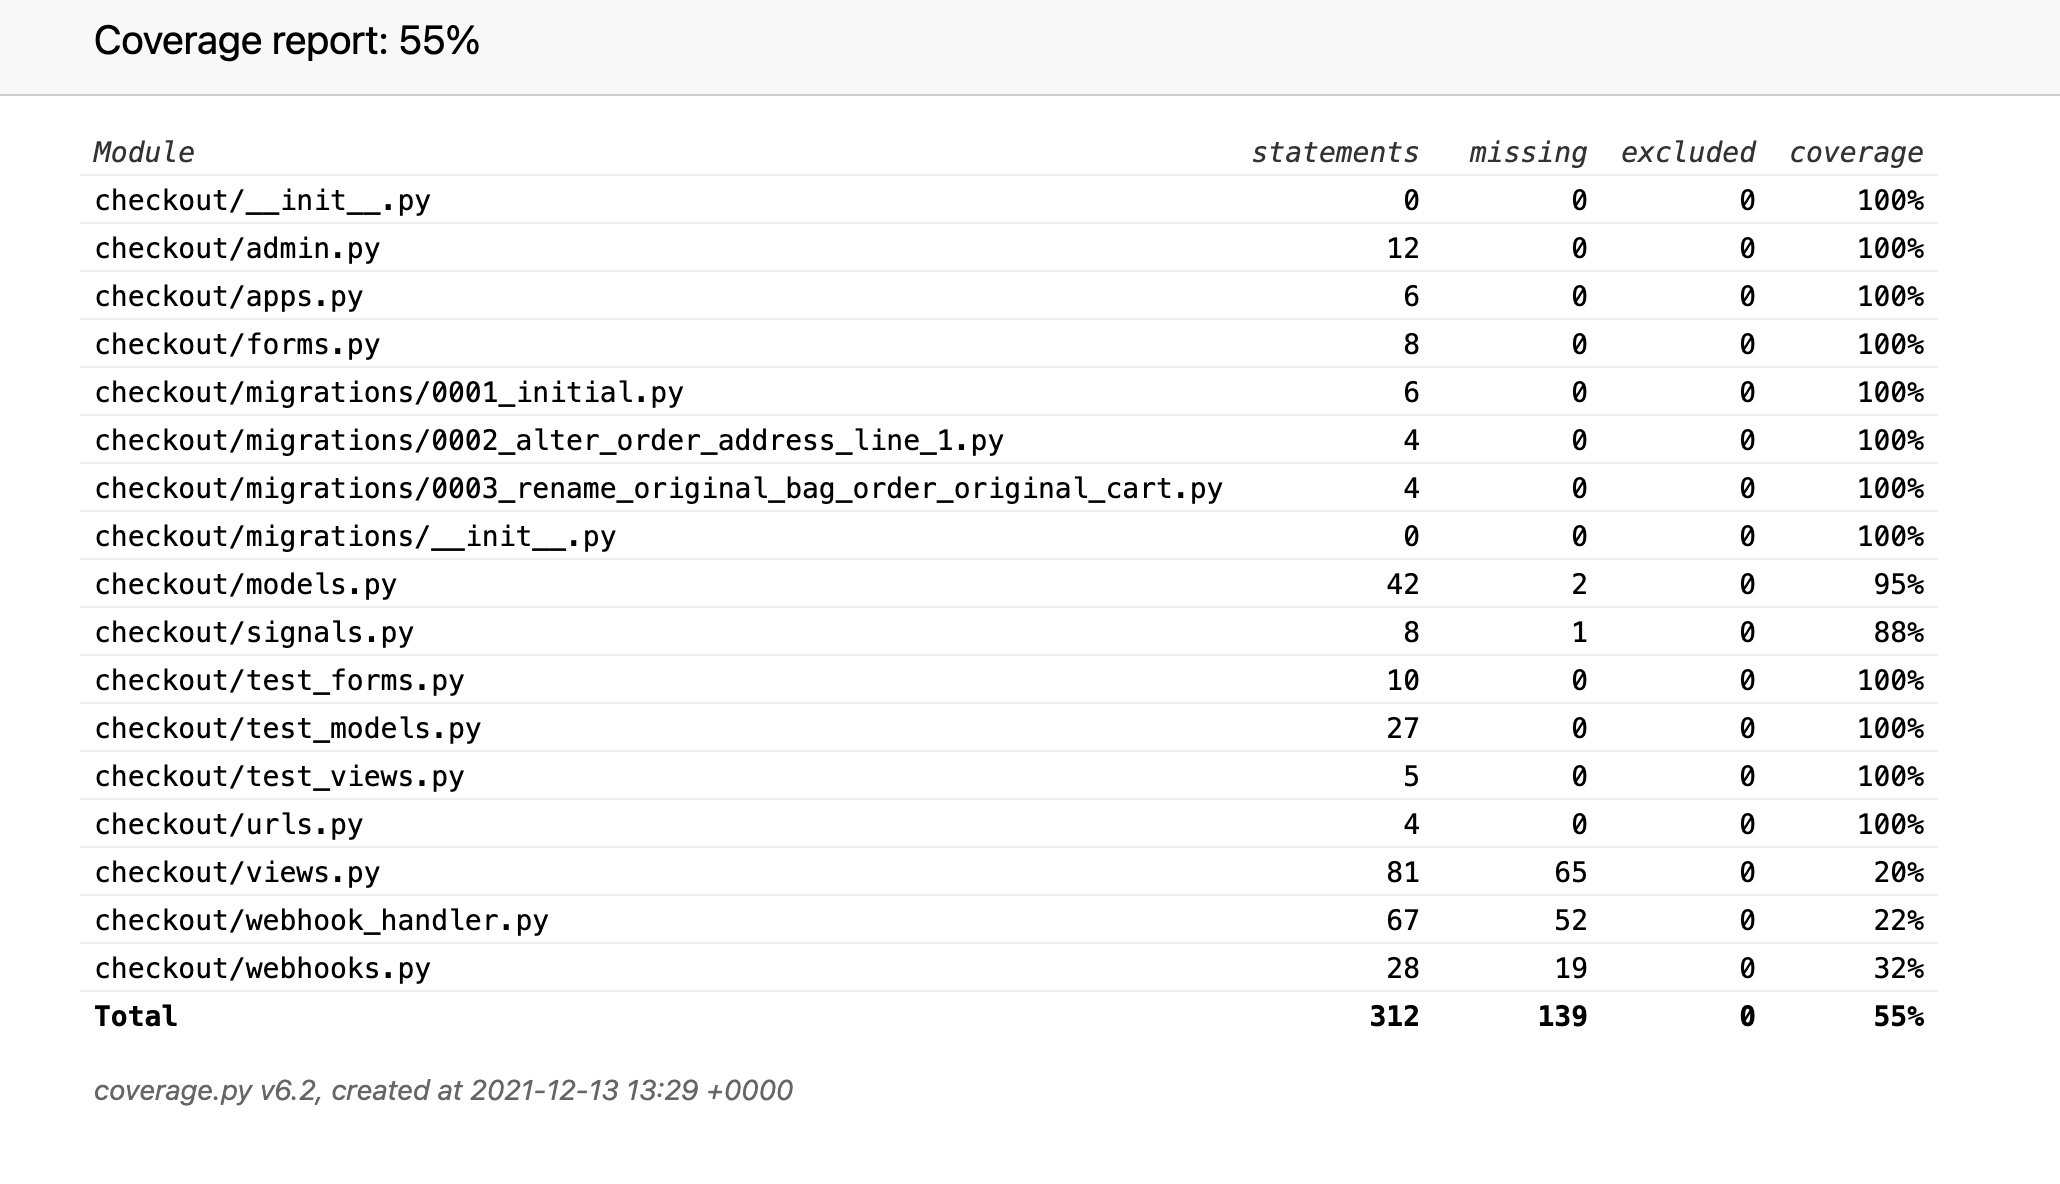
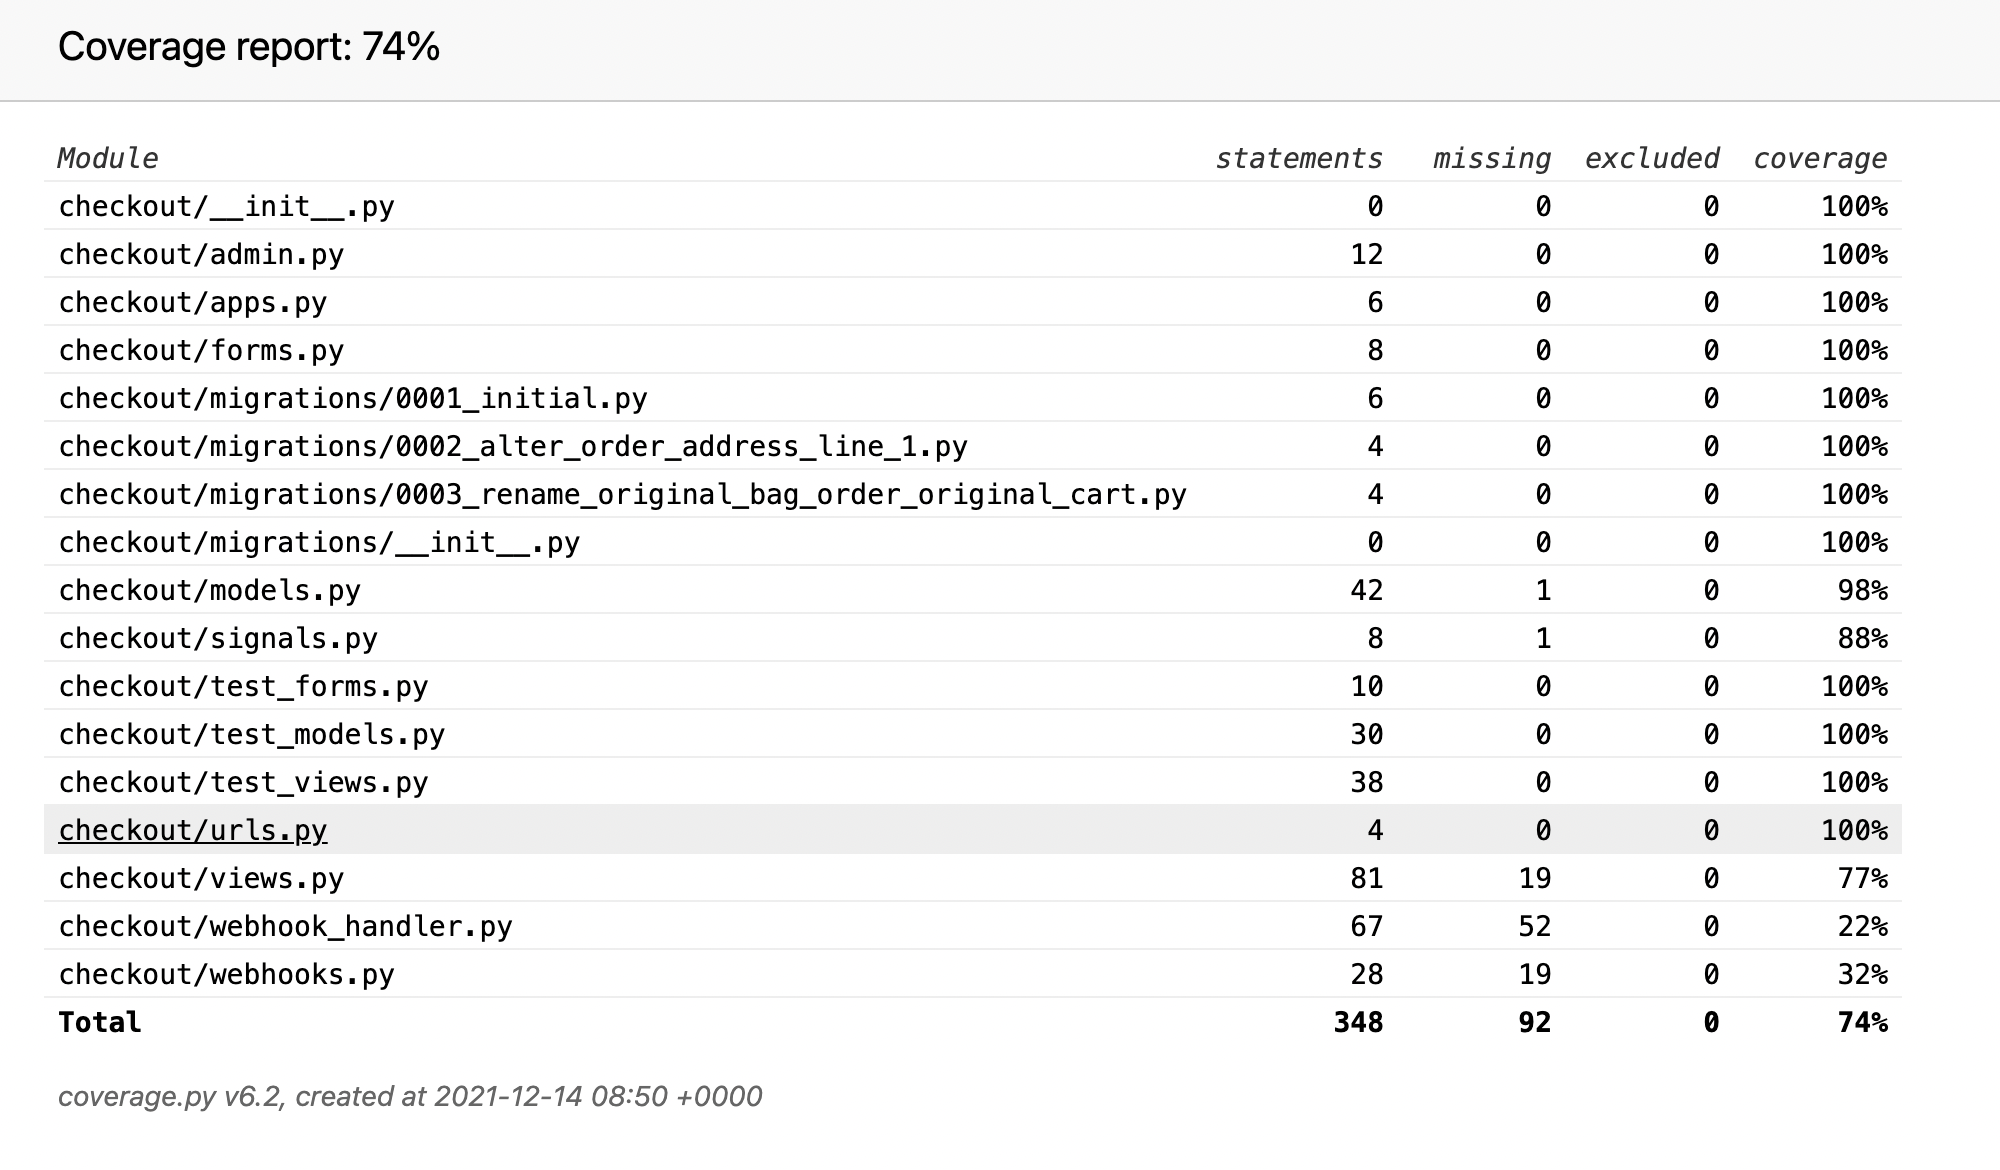
add new test for checkout views and models. update readme file

diff --git a/checkout/test_views.py b/checkout/test_views.py
@@ -1,8 +1,68 @@
-from django.test import TestCase
+from django.test import TestCase, Client
+from django.urls import reverse
+from contribution.models import Donation
+from django.contrib.auth.models import User
+from django.contrib.messages import get_messages
 
 
 class TestCheckoutView(TestCase):
 
+    def setUp(self):
+        self.client = Client()
+        self.checkout = reverse('checkout')
+        self.user = User.objects.create_user(
+            username = 'looloo',
+            email = 'looloo@email.com',
+            password = 'yo!4password',
+        )
+        self.item = Donation.objects.create(name='test item',
+                                            price='15')
+        self.add_to_cart = reverse('add_to_cart',
+                                   kwargs={'item_id': self.item.id})
+
+
     def test_get_checkout_page(self):
         response = self.client.get('/')
         self.assertEqual(response.status_code, 200)
+
+    def test_checkout_view_with_empty_cart(self):
+        response = self.client.get('/checkout/')
+        self.assertEqual(response.status_code, 302)
+        messages = list(get_messages(response.wsgi_request))
+        self.assertEqual(len(messages), 1)
+        self.assertEqual(str(messages[0]),
+                         "There is nothing in your bag at the moment")
+    
+    def test_checkout_view_with_cart(self):
+        self.client.post(self.add_to_cart,
+                         data={'quantity': '1',
+                               'redirect_url': '/'})
+        response = self.client.get(self.checkout)
+        self.assertEqual(response.status_code, 200)
+        self.assertTemplateUsed(response, 'checkout/checkout.html')
+        self.assertTemplateUsed(response, 'base.html')
+    
+    def test_checkout_success(self):
+        self.client.post(self.add_to_cart,
+                         data={'quantity': '1',
+                               'redirect_url': '/'})
+        response = self.client.post(self.checkout,
+                                    data={
+                                        'first_name': 'Lola',
+                                        'last_name': 'Montez',
+                                        'email': 'looloo@email.com',
+                                        'address_line_1': 'South Beach Street 99',
+                                        'address_line_2': '',
+                                        'postal_code': '23459RR', 
+                                        'client_secret': 'client',
+                                        }, follow=True)
+        self.assertEqual(response.status_code, 200)
+        self.assertTemplateUsed(response, 'checkout/checkout_success.html')
+    
+    def test_checkout_view_with_form_prefilled(self):
+        self.client.post(self.add_to_cart, 
+                         data={'quantity': '1', 'redirect_url': '/'})
+        self.client.login(username='looloo', password='yo!4password')
+        response = self.client.get(self.checkout)
+        self.assertEqual(response.status_code, 200)
+        self.assertEqual(response.context['order_form'].initial['email'], self.user.email)

diff --git a/checkout/test_models.py b/checkout/test_models.py
@@ -26,6 +26,10 @@ class TestOrderCheckoutModel(TestCase):
         order.save()
         self.assertEqual(order.order_total, 85.00)
 
+    def test_order_str_method_returns_order_number(self):
+        order = Order.objects.create(order_number='Test order_number')
+        self.assertEqual(str(order), 'Test order_number')
+
 
 class TestOrderLineItemCheckout(TestCase):
     def test_check_order_exists(self):

diff --git a/checkout/views.py b/checkout/views.py
@@ -77,7 +77,7 @@ def checkout(request):
         if not cart:
             messages.error(request,
                            "There is nothing in your bag at the moment")
-            return redirect(reverse('products'))
+            return redirect(reverse('contribution'))
 
         current_cart = cart_contents(request)
         total = current_cart['grand_total']

diff --git a/TESTING.md b/TESTING.md
@@ -1,0 +1,82 @@
+# TESTING 
+
+<p>&nbsp;</p>
+
+# TABLE OF CONTENT
+## 1.&nbsp;&nbsp;&nbsp;&nbsp;[COVERAGE](#coverage_-_django_testing)
+## 2.&nbsp;&nbsp;&nbsp;&nbsp;[MANUAL TEST]
+## 3.&nbsp;&nbsp;&nbsp;&nbsp;[VALIDATORS]()
+* [HTML](#something)
+* [CSS]
+* [PEP8]
+* [JAVASCRIPT]
+
+
+
+
+
+
+# Coverage - Django Testing
+## To generate reports on the automated testing:
+    *   install coverage : pip3 install coverage
+    *   python3 -m coverage run --source=`APPNAME` manage.py test : create test database
+    *   python3 -m coverage report : generate the report
+    *   python3 -m coverage html : render the report in html in a file named htmlcov
+        * to see the file online : 
+            *   python3 -m http.server
+            *   click htmlcov
+<p>&nbsp;</p>
+
+## To run Django Unit Testing:
+    * test_views, test_models, test_forms (only if app has forms) were created to generate these test
+    * to run the test : e.g.  python3 manage.py test checkout.test_views
+ <p>&nbsp;</p>
+
+### **This shows an error in the test which caused it to fail**
+<p>&nbsp;</p>
+
+*   ![django_testing_error](README_images/django_testing_error.png)
+<p>&nbsp;</p>
+
+### **The OK means the test ran as they were instructed and with no errors**
+<p>&nbsp;</p>
+
+*   ![django_testing_ok](README_images/django_testing_ok.png)
+
+<p>&nbsp;</p>
+
+* BLOGBOARD
+![Blogboard](README_images/coverage_report_blogboard.png)
+
+<p>&nbsp;</p>
+
+* CHECKOUT
+![Checkout](README_images/coverage_report_checkout.png)
+
+<p>&nbsp;</p>
+
+* CONTRIBUTION
+![Contribution](README_images/coverage_report_contribution.png)
+
+<p>&nbsp;</p>
+
+* DOGS
+![Dogs](README_images/coverage_report_dogs.png)
+
+<p>&nbsp;</p>
+
+* EVENTS
+![Events](README_images/coverage_report_events.png)
+
+<p>&nbsp;</p>
+
+* HOME
+![Home](README_images/coverage_report_home.png)
+
+<p>&nbsp;</p>
+
+* USERS
+![Users](README_images/coverage_report_users.png)
+
+<p>&nbsp;</p>
+

diff --git a/README.md b/README.md
@@ -130,54 +130,6 @@ font-family: 'Montserrat Alternates', sans-serif;
 
 
 # TESTING
-## Coverage - Django Testing
-### To generate reports on the automated testing:
-    *   install coverage : pip3 install coverage
-    *   python3 -m coverage run --source=`APPNAME` manage.py test : create test database
-    *   python3 -m coverage report : generate the report
-    *   python3 -m coverage html : render the report in html in a file named htmlcov
-        * to see the file online : 
-            *   python3 -m http.server
-            *   click htmlcov
-
-### The reports of testing of views, model, forms of my various apps:
-
-<p>&nbsp;</p>
-
-* BLOGBOARD
-![Blogboard](README_images/coverage_report_blogboard.png)
-
-<p>&nbsp;</p>
-
-* CHECKOUT
-![Checkout](README_images/coverage_report_checkout.png)
-
-<p>&nbsp;</p>
-
-* CONTRIBUTION
-![Contribution](README_images/coverage_report_contribution.png)
-
-<p>&nbsp;</p>
-
-* DOGS
-![Dogs](README_images/coverage_report_dogs.png)
-
-<p>&nbsp;</p>
-
-* EVENTS
-![Events](README_images/coverage_report_events.png)
-
-<p>&nbsp;</p>
-
-* HOME
-![Home](README_images/coverage_report_home.png)
-
-<p>&nbsp;</p>
-
-* USERS
-![Users](README_images/coverage_report_users.png)
-
-<p>&nbsp;</p>
 
 ## 
 
